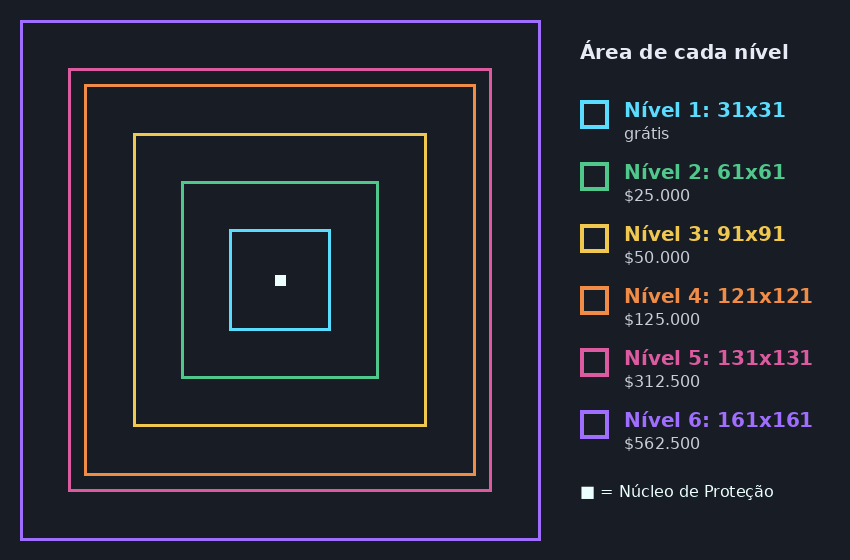
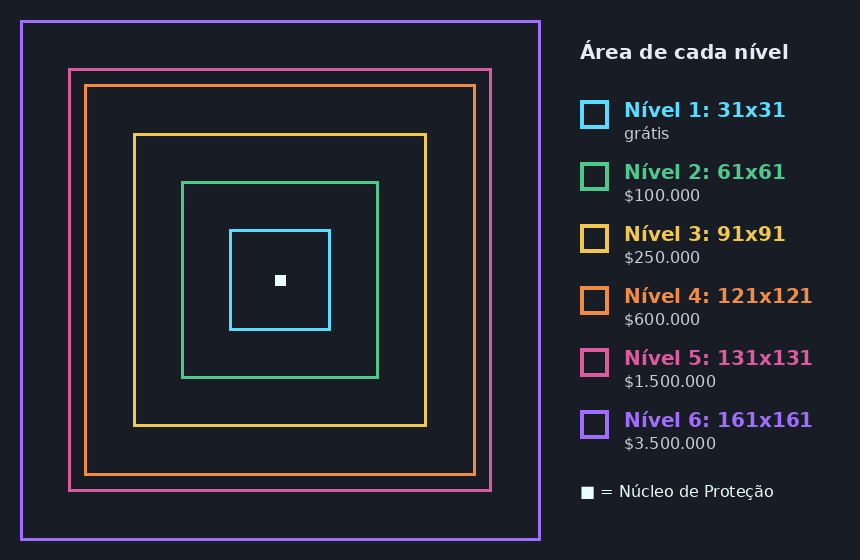
Wiki: novos preços da proteção
Claude-Session: https://claude.ai/code/session_01F31n6NNJX3xzi2g2985S6e

diff --git a/wiki/protecao.md b/wiki/protecao.md
@@ -57,11 +57,11 @@ Menu → **Nível**. Cada nível aumenta a área:
 | Nível | Área | Preço |
 |---|---|---|
 | 1 | 31x31 | grátis |
-| 2 | 61x61 | $25.000 |
-| 3 | 91x91 | $50.000 |
-| 4 | 121x121 | $125.000 |
-| 5 | 131x131 | $312.500 |
-| 6 | 161x161 | $562.500 |
+| 2 | 61x61 | $100.000 |
+| 3 | 91x91 | $250.000 |
+| 4 | 121x121 | $600.000 |
+| 5 | 131x131 | $1.500.000 |
+| 6 | 161x161 | $3.500.000 |
 
 Descer de nível devolve **metade** do preço do nível em que você está.
 
